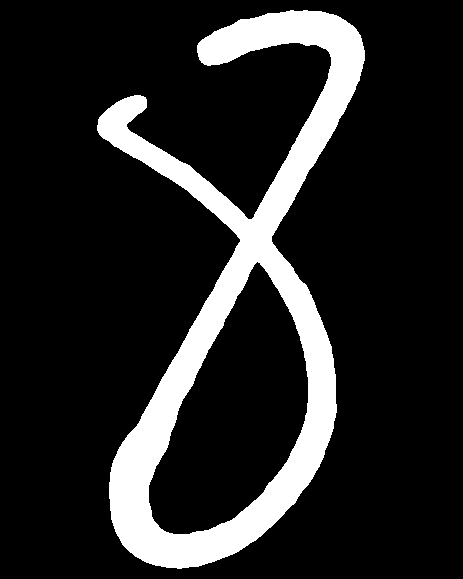
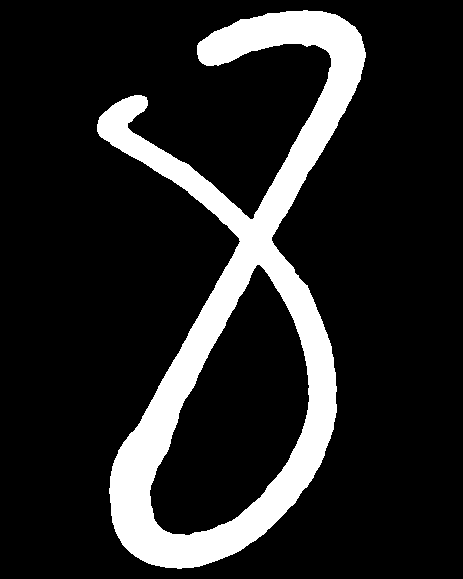
The image recognition effect when there are shadows in the picture has been adjusted

diff --git a/number_box_about/handwrite_number_box.py b/number_box_about/handwrite_number_box.py
@@ -9,39 +9,41 @@ class DigitDetector:
         self.clahe_clip_limit = 3.0
         self.clahe_grid_size = (8, 8)
         self.aspect_ratio_range = (0.8, 1.2)  # 合适的宽高比范围
+        self.dark_bg_threshold = 127  # 背景亮度阈值，可调整
 
     def _preprocess_base(self, image, debug=False):
-        # 1. 颜色空间分析
-        hsv = cv2.cvtColor(image, cv2.COLOR_BGR2HSV)
+        # 0. 提前判断背景类型
         gray = cv2.cvtColor(image, cv2.COLOR_BGR2GRAY)
-
-        # 2. 判断背景类型（亮色/暗色）
         mean_brightness = np.mean(gray)
-        is_dark_bg = mean_brightness < 127
+        is_dark_bg = mean_brightness < self.dark_bg_threshold
 
-        # 3. 计算图像熵，评估对比度
-        hist = cv2.calcHist([gray], [0], None, [256], [0, 256])
-        hist_norm = hist.ravel() / hist.sum()
-        entropy = -np.sum(hist_norm[hist_norm > 0] * np.log2(hist_norm[hist_norm > 0]))
+        if debug:
+            print(f"背景亮度: {mean_brightness}, 是否深色背景: {is_dark_bg}")
 
-        # 4. 动态调整对比度
-        if entropy < 4.0:
-            clip_limit = min(self.clahe_clip_limit * (5.0 - entropy), 8.0)
-            clahe = cv2.createCLAHE(clipLimit=clip_limit, tileGridSize=self.clahe_grid_size)
-            gray = clahe.apply(gray)
+        # 1. 只有在浅色背景下才进行阴影检测
+        shadow_mask = None
+        if not is_dark_bg:
+            shadow_mask = self._detect_shadow(image, debug)
 
-        # 5. 创建颜色掩码（针对彩色背景）
+        # 2. 对原图进行常规预处理
+        hsv = cv2.cvtColor(image, cv2.COLOR_BGR2HSV)
+
+        # 动态调整对比度
+        clahe = cv2.createCLAHE(clipLimit=self.clahe_clip_limit,
+                                tileGridSize=self.clahe_grid_size)
+        gray = clahe.apply(gray)
+
+        # 创建颜色掩码
         hue = hsv[:, :, 0]
         hue_variance = np.var(hue)
         color_mask = np.zeros_like(gray)
 
         if hue_variance > 100:  # 彩色背景
-            # 尝试分离深色数字
             lower_black = np.array([0, 0, 0])
             upper_black = np.array([180, 255, 70])
             color_mask = cv2.inRange(hsv, lower_black, upper_black)
 
-        # 6. 选择合适的阈值方法
+        # 选择合适的阈值方法
         median = cv2.medianBlur(gray, 3)
         filtered = cv2.bilateralFilter(median, 7, 50, 50)
 
@@ -50,29 +52,98 @@ class DigitDetector:
         else:
             _, thresh = cv2.threshold(filtered, 0, 255, cv2.THRESH_BINARY_INV + cv2.THRESH_OTSU)
 
-        # 7. 融合多种方法的结果
-        combined = cv2.bitwise_or(thresh, color_mask)
-
-        # 8. 形态学操作
+        # 形态学操作
         kernel = cv2.getStructuringElement(cv2.MORPH_RECT, (2, 2))
-        opened = cv2.morphologyEx(combined, cv2.MORPH_OPEN, kernel, iterations=1)
+        opened = cv2.morphologyEx(thresh, cv2.MORPH_OPEN, kernel, iterations=1)
 
-        # 9. 形态学重建
+        # 形态学重建
         seed = opened.copy()
         kernel_reconstruct = cv2.getStructuringElement(cv2.MORPH_RECT, (3, 3))
-        for _ in range(10):
+        for _ in range(5):
             dilated = cv2.dilate(seed, kernel_reconstruct)
             seed = cv2.bitwise_and(dilated, opened)
         reconstructed = seed.copy()
 
+        # 3. 阴影区域处理（仅对浅色背景进行）
+        if not is_dark_bg and shadow_mask is not None:
+            # 创建阴影区域的掩码
+            shadow_indices = np.where(shadow_mask > 0)
+
+            # 在阴影区域内，只保留reconstructed中与shadow_mask重叠的部分
+            shadow_overlap = np.zeros_like(reconstructed)
+            shadow_overlap[shadow_indices] = reconstructed[shadow_indices]
+
+            result = shadow_overlap
+        else:
+            # 深色背景直接使用常规预处理结果
+            result = reconstructed
+
+        # 4. 后处理优化
+        kernel = cv2.getStructuringElement(cv2.MORPH_RECT, (2, 2))
+        result = cv2.morphologyEx(result, cv2.MORPH_CLOSE, kernel, iterations=1)
+
         if debug:
             try:
-                debug_path = "number_box_about/result_debug/debug_reconstructed.jpg"
-                cv2.imwrite(debug_path, reconstructed)
+                cv2.imwrite("number_box_about/result_debug/debug_final_result.jpg", result)
+                cv2.imwrite("number_box_about/result_debug/debug_reconstructed.jpg", reconstructed)
+                if shadow_mask is not None:
+                    cv2.imwrite("number_box_about/result_debug/debug_shadow_mask.jpg", shadow_mask)
             except Exception as e:
                 print(f"保存调试图像失败: {e}")
 
-        return reconstructed
+        return result
+
+    def _detect_shadow(self, image, debug=False):
+        """基于亮度分析的阴影检测"""
+        # 转换到LAB颜色空间
+        lab = cv2.cvtColor(image, cv2.COLOR_BGR2LAB)
+        l, a, b = cv2.split(lab)
+
+        # 计算亮度通道的统计特征
+        l_mean = np.mean(l)
+        l_std = np.std(l)
+
+        # 动态确定低亮度阈值
+        low_threshold = max(0, l_mean - l_std * 1.2)  # 可调整参数
+
+        # 创建低亮度掩码
+        low_luminance = np.zeros_like(l)
+        low_luminance[l < low_threshold] = 255
+
+        # 对比度增强
+        clahe = cv2.createCLAHE(clipLimit=2.0, tileGridSize=(8, 8))
+        enhanced_l = clahe.apply(l)
+
+        # 自适应阈值处理
+        _, adaptive_thresh = cv2.threshold(enhanced_l, 0, 255,
+                                           cv2.THRESH_BINARY_INV + cv2.THRESH_OTSU)
+
+        # 融合两种阴影指示
+        shadow_mask = cv2.bitwise_and(low_luminance, adaptive_thresh)
+
+        # 形态学操作优化
+        kernel = cv2.getStructuringElement(cv2.MORPH_ELLIPSE, (5, 5))
+        opening = cv2.morphologyEx(shadow_mask, cv2.MORPH_OPEN, kernel, iterations=1)
+        closing = cv2.morphologyEx(opening, cv2.MORPH_CLOSE, kernel, iterations=2)
+
+        # 移除小区域
+        contours, _ = cv2.findContours(closing, cv2.RETR_EXTERNAL, cv2.CHAIN_APPROX_SIMPLE)
+        min_area = max(100, image.shape[0] * image.shape[1] * 0.0005)
+
+        final_mask = np.zeros_like(closing)
+        for cnt in contours:
+            if cv2.contourArea(cnt) > min_area:
+                cv2.drawContours(final_mask, [cnt], -1, 255, -1)
+
+        if debug:
+            try:
+                cv2.imwrite("number_box_about/result_debug/debug_low_luminance.jpg", low_luminance)
+                cv2.imwrite("number_box_about/result_debug/debug_adaptive_thresh.jpg", adaptive_thresh)
+                cv2.imwrite("number_box_about/result_debug/debug_shadow_mask.jpg", final_mask)
+            except Exception as e:
+                print(f"保存阴影检测调试图像失败: {e}")
+
+        return final_mask
 
     def _preprocess_for_visual(self, image, debug=False):
         reconstructed = self._preprocess_base(image, debug)
@@ -171,7 +242,6 @@ class DigitDetector:
         if self.aspect_ratio_range[0] <= aspect_ratio <= self.aspect_ratio_range[1]:
             return image
 
-        # 计算目标尺寸
         if aspect_ratio < self.aspect_ratio_range[0]:  # 太窄，增加宽度
             target_w = int(h * self.aspect_ratio_range[0])
             padding = (target_w - w) // 2
@@ -179,7 +249,7 @@ class DigitDetector:
                 image, 0, 0, padding, target_w - w - padding,
                 cv2.BORDER_CONSTANT, value=[0, 0, 0]
             )
-        else:  # 太宽，增加高度
+        else:
             target_h = int(w / self.aspect_ratio_range[1])
             padding = (target_h - h) // 2
             padded = cv2.copyMakeBorder(

diff --git a/number_box_about/handwrite_number_box_bak.py b/number_box_about/handwrite_number_box_bak.py
@@ -8,6 +8,7 @@ class DigitDetector:
     def __init__(self):
         self.clahe_clip_limit = 3.0
         self.clahe_grid_size = (8, 8)
+        self.aspect_ratio_range = (0.8, 1.2)  # 合适的宽高比范围
 
     def _preprocess_base(self, image, debug=False):
         # 1. 颜色空间分析
@@ -122,6 +123,9 @@ class DigitDetector:
                 else:
                     digit_roi = image[y1:y2, x1:x2]
 
+                # 检测并调整长宽比
+                digit_roi = self._ensure_aspect_ratio(digit_roi)
+
                 if output_dir:
                     os.makedirs(output_dir, exist_ok=True)
                     digit_path = os.path.join(output_dir, f"digit_{i}.png")
@@ -151,3 +155,36 @@ class DigitDetector:
         header, data = image_data.split(",", 1)
         nparr = np.frombuffer(base64.b64decode(data), np.uint8)
         return cv2.imdecode(nparr, cv2.IMREAD_COLOR)
+
+    def _ensure_aspect_ratio(self, image):
+        """确保图像的宽高比在合适范围内，否则填充纯黑底色"""
+        if image.size == 0:
+            return image
+
+        h, w = image.shape[:2]
+        if h == 0 or w == 0:
+            return image
+
+        aspect_ratio = w / h
+
+        # 如果长宽比在合适范围内，直接返回原图
+        if self.aspect_ratio_range[0] <= aspect_ratio <= self.aspect_ratio_range[1]:
+            return image
+
+        # 计算目标尺寸
+        if aspect_ratio < self.aspect_ratio_range[0]:  # 太窄，增加宽度
+            target_w = int(h * self.aspect_ratio_range[0])
+            padding = (target_w - w) // 2
+            padded = cv2.copyMakeBorder(
+                image, 0, 0, padding, target_w - w - padding,
+                cv2.BORDER_CONSTANT, value=[0, 0, 0]
+            )
+        else:  # 太宽，增加高度
+            target_h = int(w / self.aspect_ratio_range[1])
+            padding = (target_h - h) // 2
+            padded = cv2.copyMakeBorder(
+                image, padding, target_h - h - padding, 0, 0,
+                cv2.BORDER_CONSTANT, value=[0, 0, 0]
+            )
+
+        return padded
